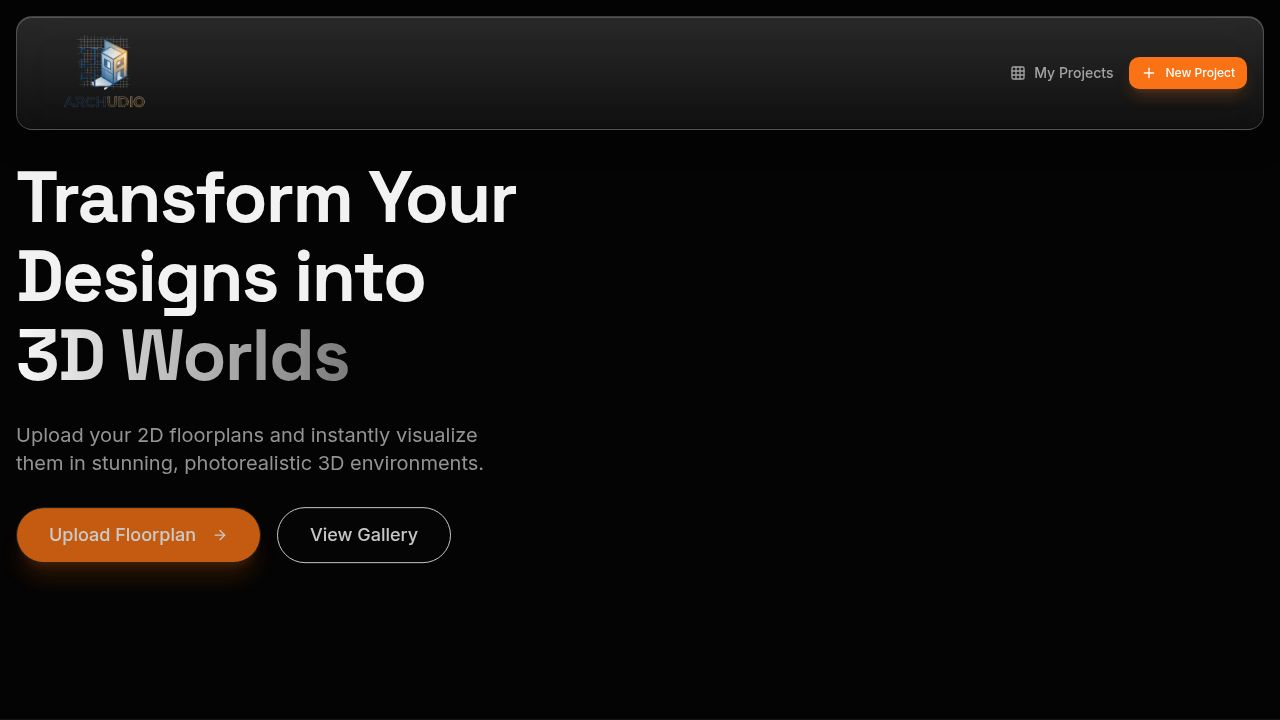
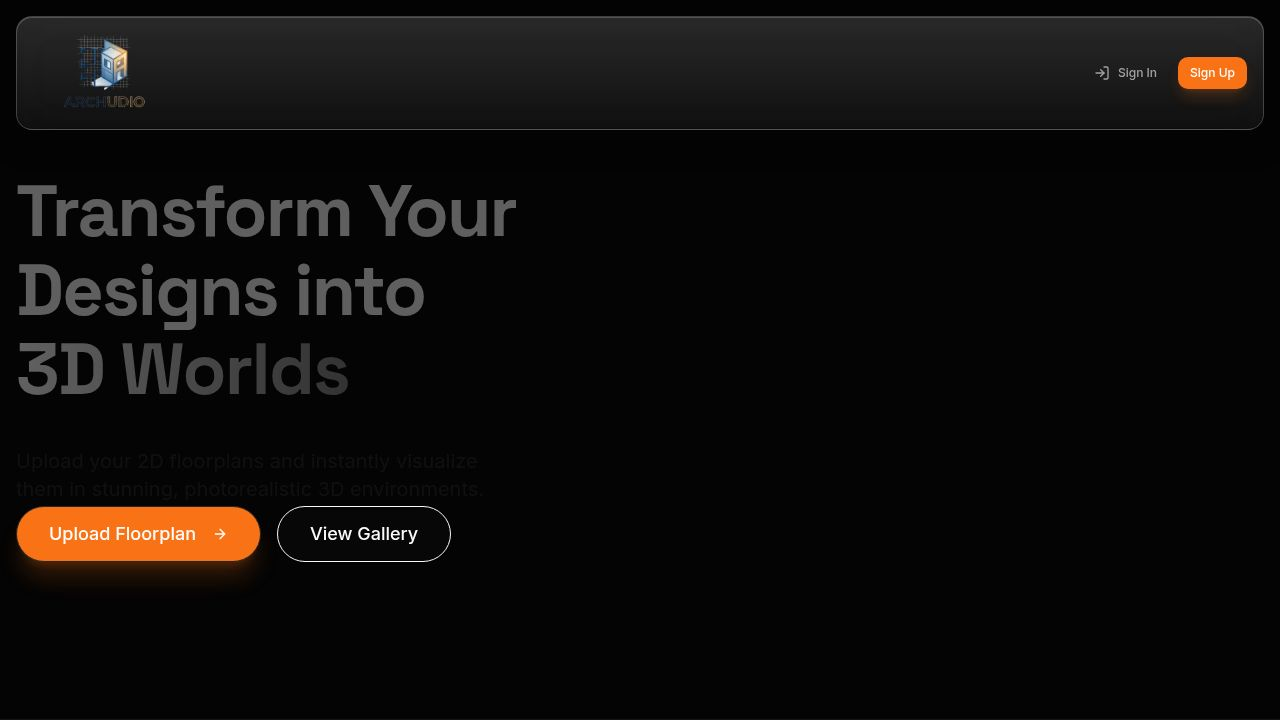
Require users to sign up before uploading floorplans or viewing projects
Implement authentication checks on the Upload and Projects pages, redirecting unauthenticated users to the login flow with a toast notification.

Replit-Commit-Author: Agent
Replit-Commit-Session-Id: 2e15b2d4-2304-4d34-be00-142c6d381b2a
Replit-Commit-Checkpoint-Type: full_checkpoint
Replit-Commit-Event-Id: f0c6a872-9f3d-45c7-a803-4360db0c72c1
Replit-Commit-Screenshot-Url: https://storage.googleapis.com/screenshot-production-us-central1/50362452-3b22-479f-a817-033b1e9e669a/2e15b2d4-2304-4d34-be00-142c6d381b2a/kkfPSec
Replit-Helium-Checkpoint-Created: true

diff --git a/client/src/pages/Projects.tsx b/client/src/pages/Projects.tsx
@@ -1,17 +1,51 @@
+import { useEffect } from "react";
 import { Layout } from "@/components/layout/Layout";
 import { ProjectCard } from "@/components/projects/ProjectCard";
-import { Plus } from "lucide-react";
+import { Plus, Loader2 } from "lucide-react";
 import { Link } from "wouter";
 import { Button } from "@/components/ui/button";
 import { useQuery } from "@tanstack/react-query";
 import { fetchProjects } from "@/lib/api";
 import { Skeleton } from "@/components/ui/skeleton";
+import { useAuth } from "@/hooks/use-auth";
+import { useToast } from "@/hooks/use-toast";
 
 export function Projects() {
+  const { isAuthenticated, isLoading: authLoading } = useAuth();
+  const { toast } = useToast();
+
   const { data: projects, isLoading } = useQuery({
     queryKey: ['projects'],
     queryFn: fetchProjects,
+    enabled: isAuthenticated,
   });
+
+  // Redirect to login if not authenticated
+  useEffect(() => {
+    if (!authLoading && !isAuthenticated) {
+      toast({
+        title: "Sign up required",
+        description: "Create a free account to view your projects.",
+      });
+      setTimeout(() => {
+        window.location.href = "/api/login";
+      }, 500);
+    }
+  }, [isAuthenticated, authLoading, toast]);
+
+  // Show loading state while checking auth
+  if (authLoading || !isAuthenticated) {
+    return (
+      <Layout>
+        <div className="container mx-auto px-4 py-12 flex items-center justify-center min-h-[60vh]">
+          <div className="text-center">
+            <Loader2 className="w-8 h-8 animate-spin mx-auto mb-4 text-primary" />
+            <p className="text-muted-foreground">Redirecting to sign up...</p>
+          </div>
+        </div>
+      </Layout>
+    );
+  }
 
   return (
     <Layout>
@@ -22,7 +56,7 @@ export function Projects() {
             <p className="text-muted-foreground">Manage and view your architectural generations.</p>
           </div>
           <Link href="/upload">
-            <Button className="gap-2 bg-primary hover:bg-primary/90 text-white">
+            <Button className="gap-2 bg-primary hover:bg-primary/90 text-white" data-testid="button-new-project">
               <Plus className="w-4 h-4" />
               New Project
             </Button>
@@ -50,7 +84,7 @@ export function Projects() {
             <h3 className="text-xl font-medium mb-2">No projects yet</h3>
             <p className="text-muted-foreground mb-6">Upload your first floorplan to get started.</p>
             <Link href="/upload">
-              <Button>Start Creating</Button>
+              <Button data-testid="button-start-creating">Start Creating</Button>
             </Link>
           </div>
         )}

diff --git a/client/src/pages/Upload.tsx b/client/src/pages/Upload.tsx
@@ -1,4 +1,4 @@
-import { useState, useCallback } from "react";
+import { useState, useCallback, useEffect } from "react";
 import { useLocation } from "wouter";
 import { useDropzone } from "react-dropzone";
 import { Upload as UploadIcon, FileUp, Loader2, ArrowRight } from "lucide-react";
@@ -10,6 +10,7 @@ import { useToast } from "@/hooks/use-toast";
 import { Card, CardContent } from "@/components/ui/card";
 import { useMutation, useQueryClient } from "@tanstack/react-query";
 import { createProject, uploadFloorplan } from "@/lib/api";
+import { useAuth } from "@/hooks/use-auth";
 import uploadBgVideo from "@assets/kish613_a_floorplan_morphing_from_a_regular_2d_drawing_and_gr__1765912738462.mp4";
 
 export function Upload() {
@@ -18,6 +19,20 @@ export function Upload() {
   const [, setLocation] = useLocation();
   const { toast } = useToast();
   const queryClient = useQueryClient();
+  const { isAuthenticated, isLoading } = useAuth();
+
+  // Redirect to login if not authenticated
+  useEffect(() => {
+    if (!isLoading && !isAuthenticated) {
+      toast({
+        title: "Sign up required",
+        description: "Create a free account to start transforming floorplans into 3D models.",
+      });
+      setTimeout(() => {
+        window.location.href = "/api/login";
+      }, 500);
+    }
+  }, [isAuthenticated, isLoading, toast]);
 
   const createProjectMutation = useMutation({
     mutationFn: async () => {
@@ -67,6 +82,32 @@ export function Upload() {
   const handleUpload = () => {
     createProjectMutation.mutate();
   };
+
+  // Show loading state while checking auth
+  if (isLoading || !isAuthenticated) {
+    return (
+      <Layout>
+        <div className="fixed inset-0 z-0">
+          <div className="absolute inset-0 bg-black/70 z-10" />
+          <video 
+            autoPlay 
+            loop 
+            muted 
+            playsInline
+            className="w-full h-full object-cover"
+          >
+            <source src={uploadBgVideo} type="video/mp4" />
+          </video>
+        </div>
+        <div className="container relative z-10 mx-auto px-4 py-12 max-w-2xl pt-32 flex items-center justify-center min-h-[60vh]">
+          <div className="text-center">
+            <Loader2 className="w-8 h-8 animate-spin mx-auto mb-4 text-primary" />
+            <p className="text-muted-foreground">Redirecting to sign up...</p>
+          </div>
+        </div>
+      </Layout>
+    );
+  }
 
   return (
     <Layout>
